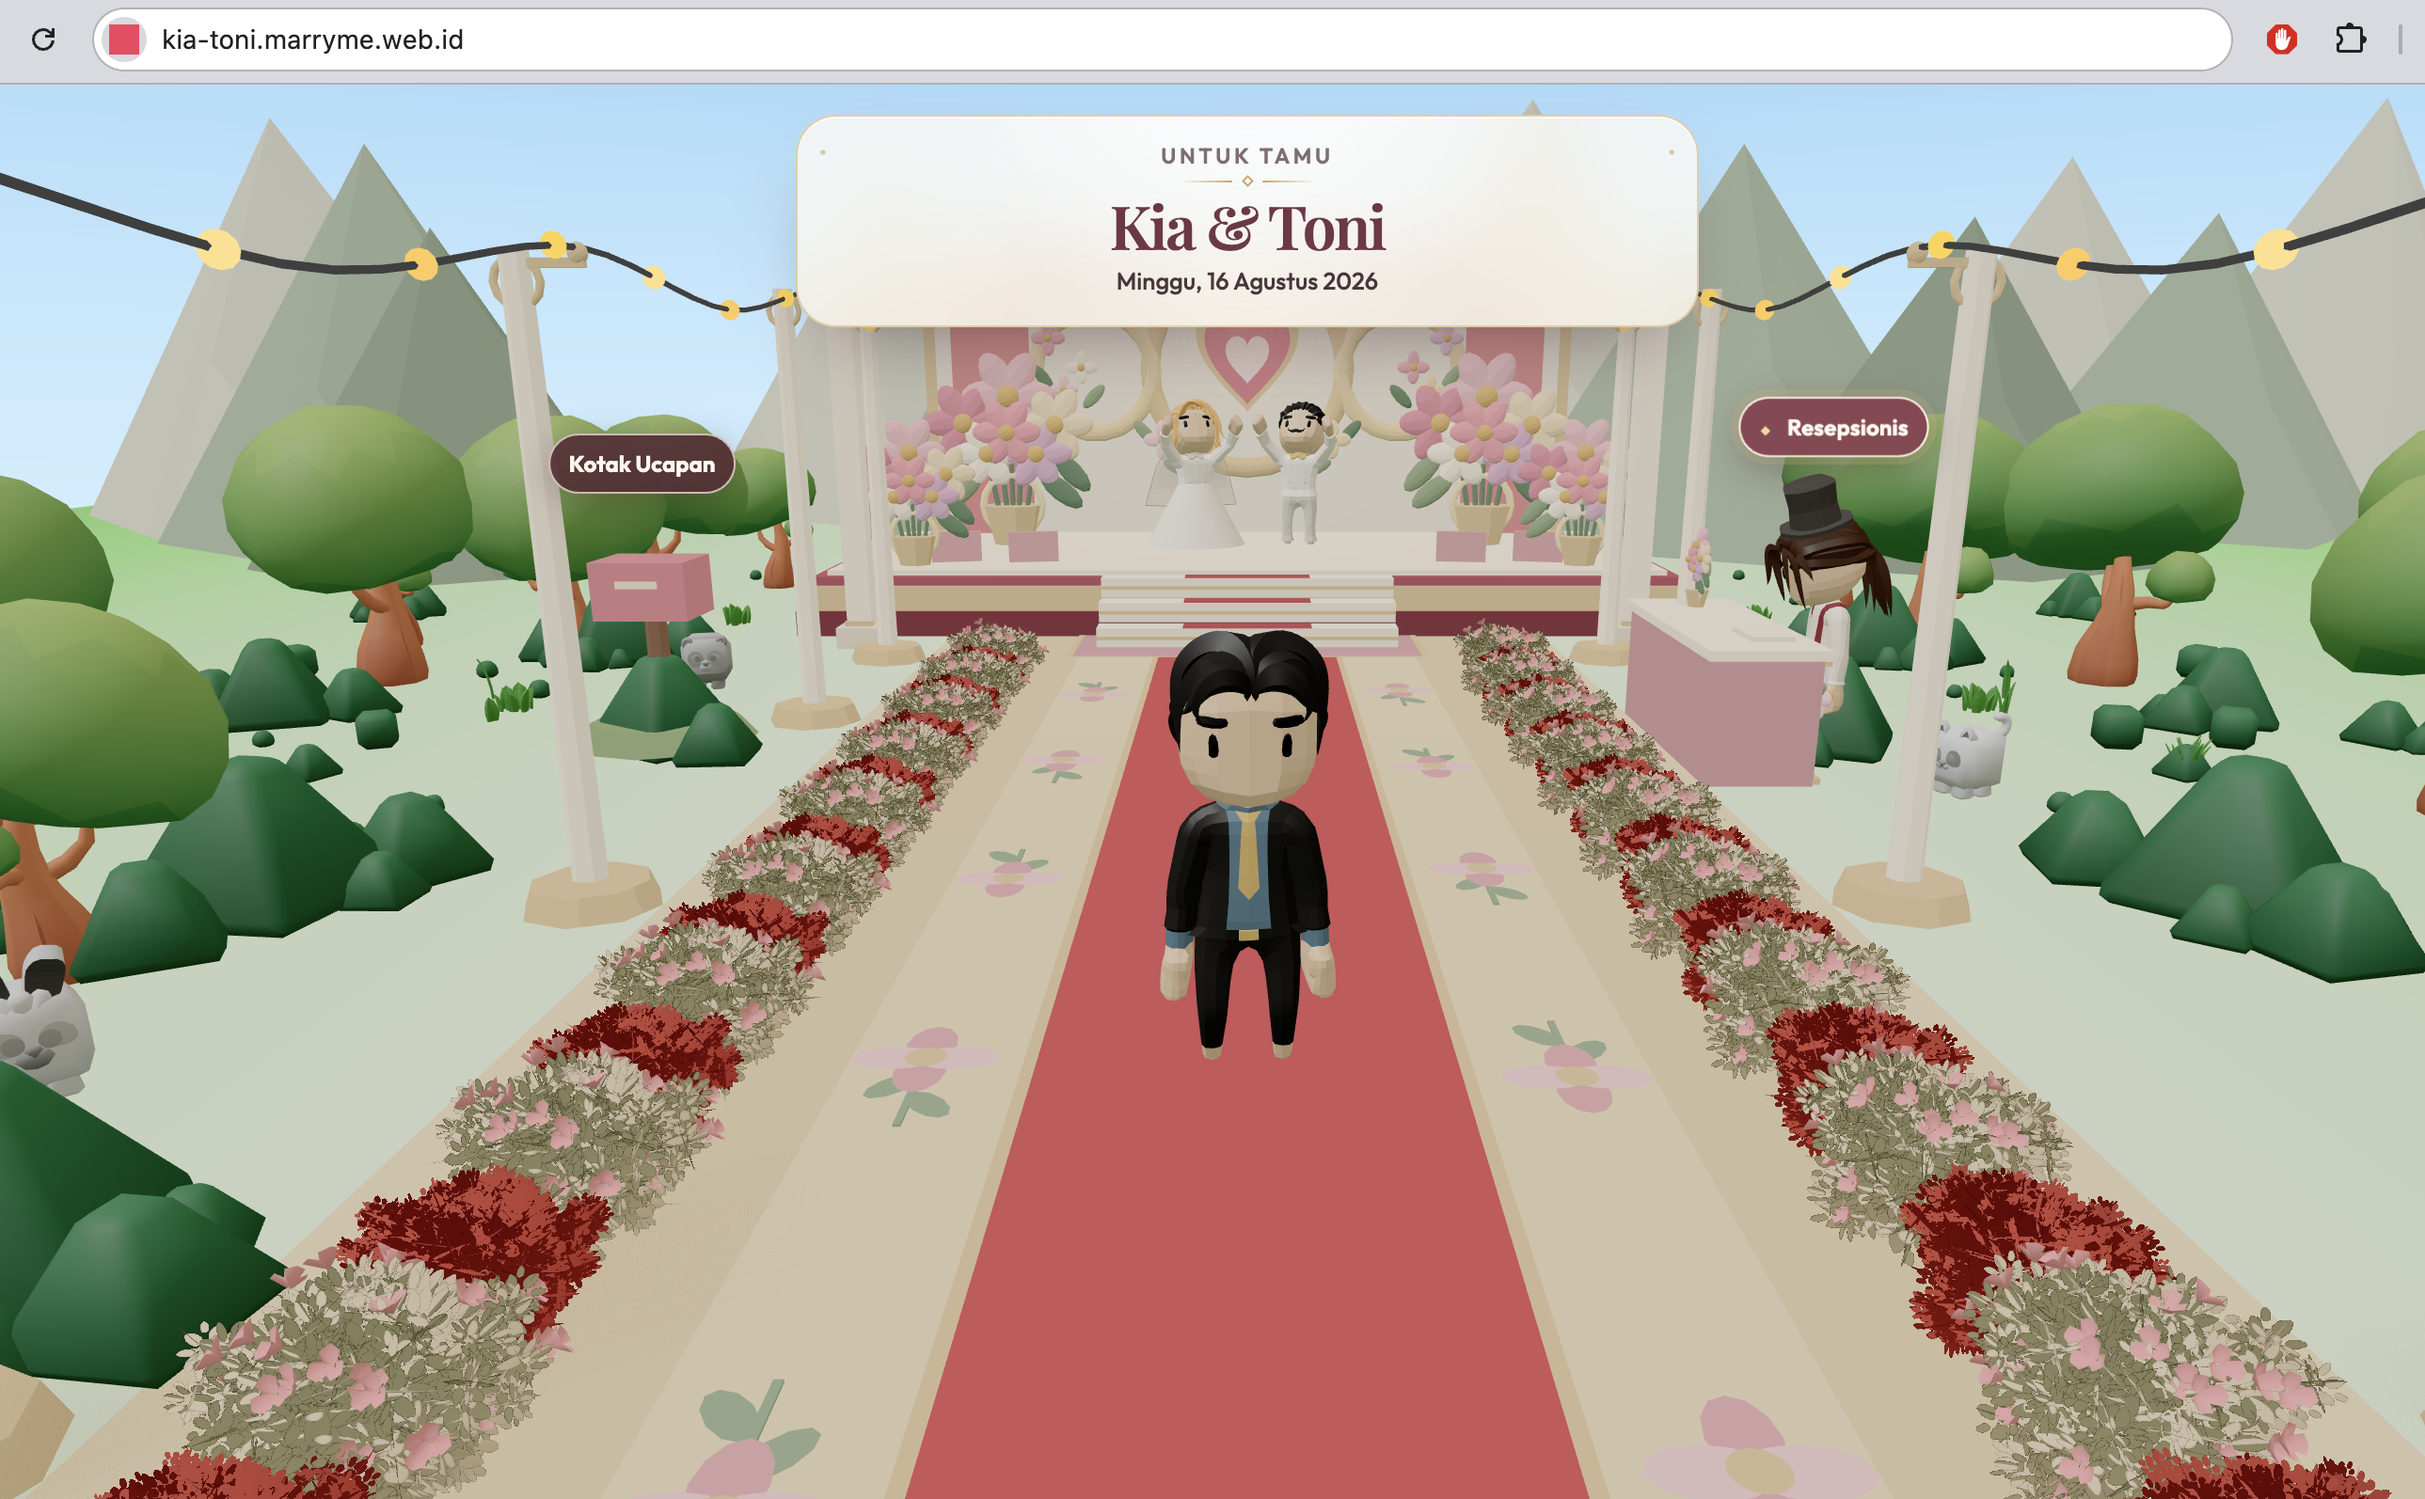
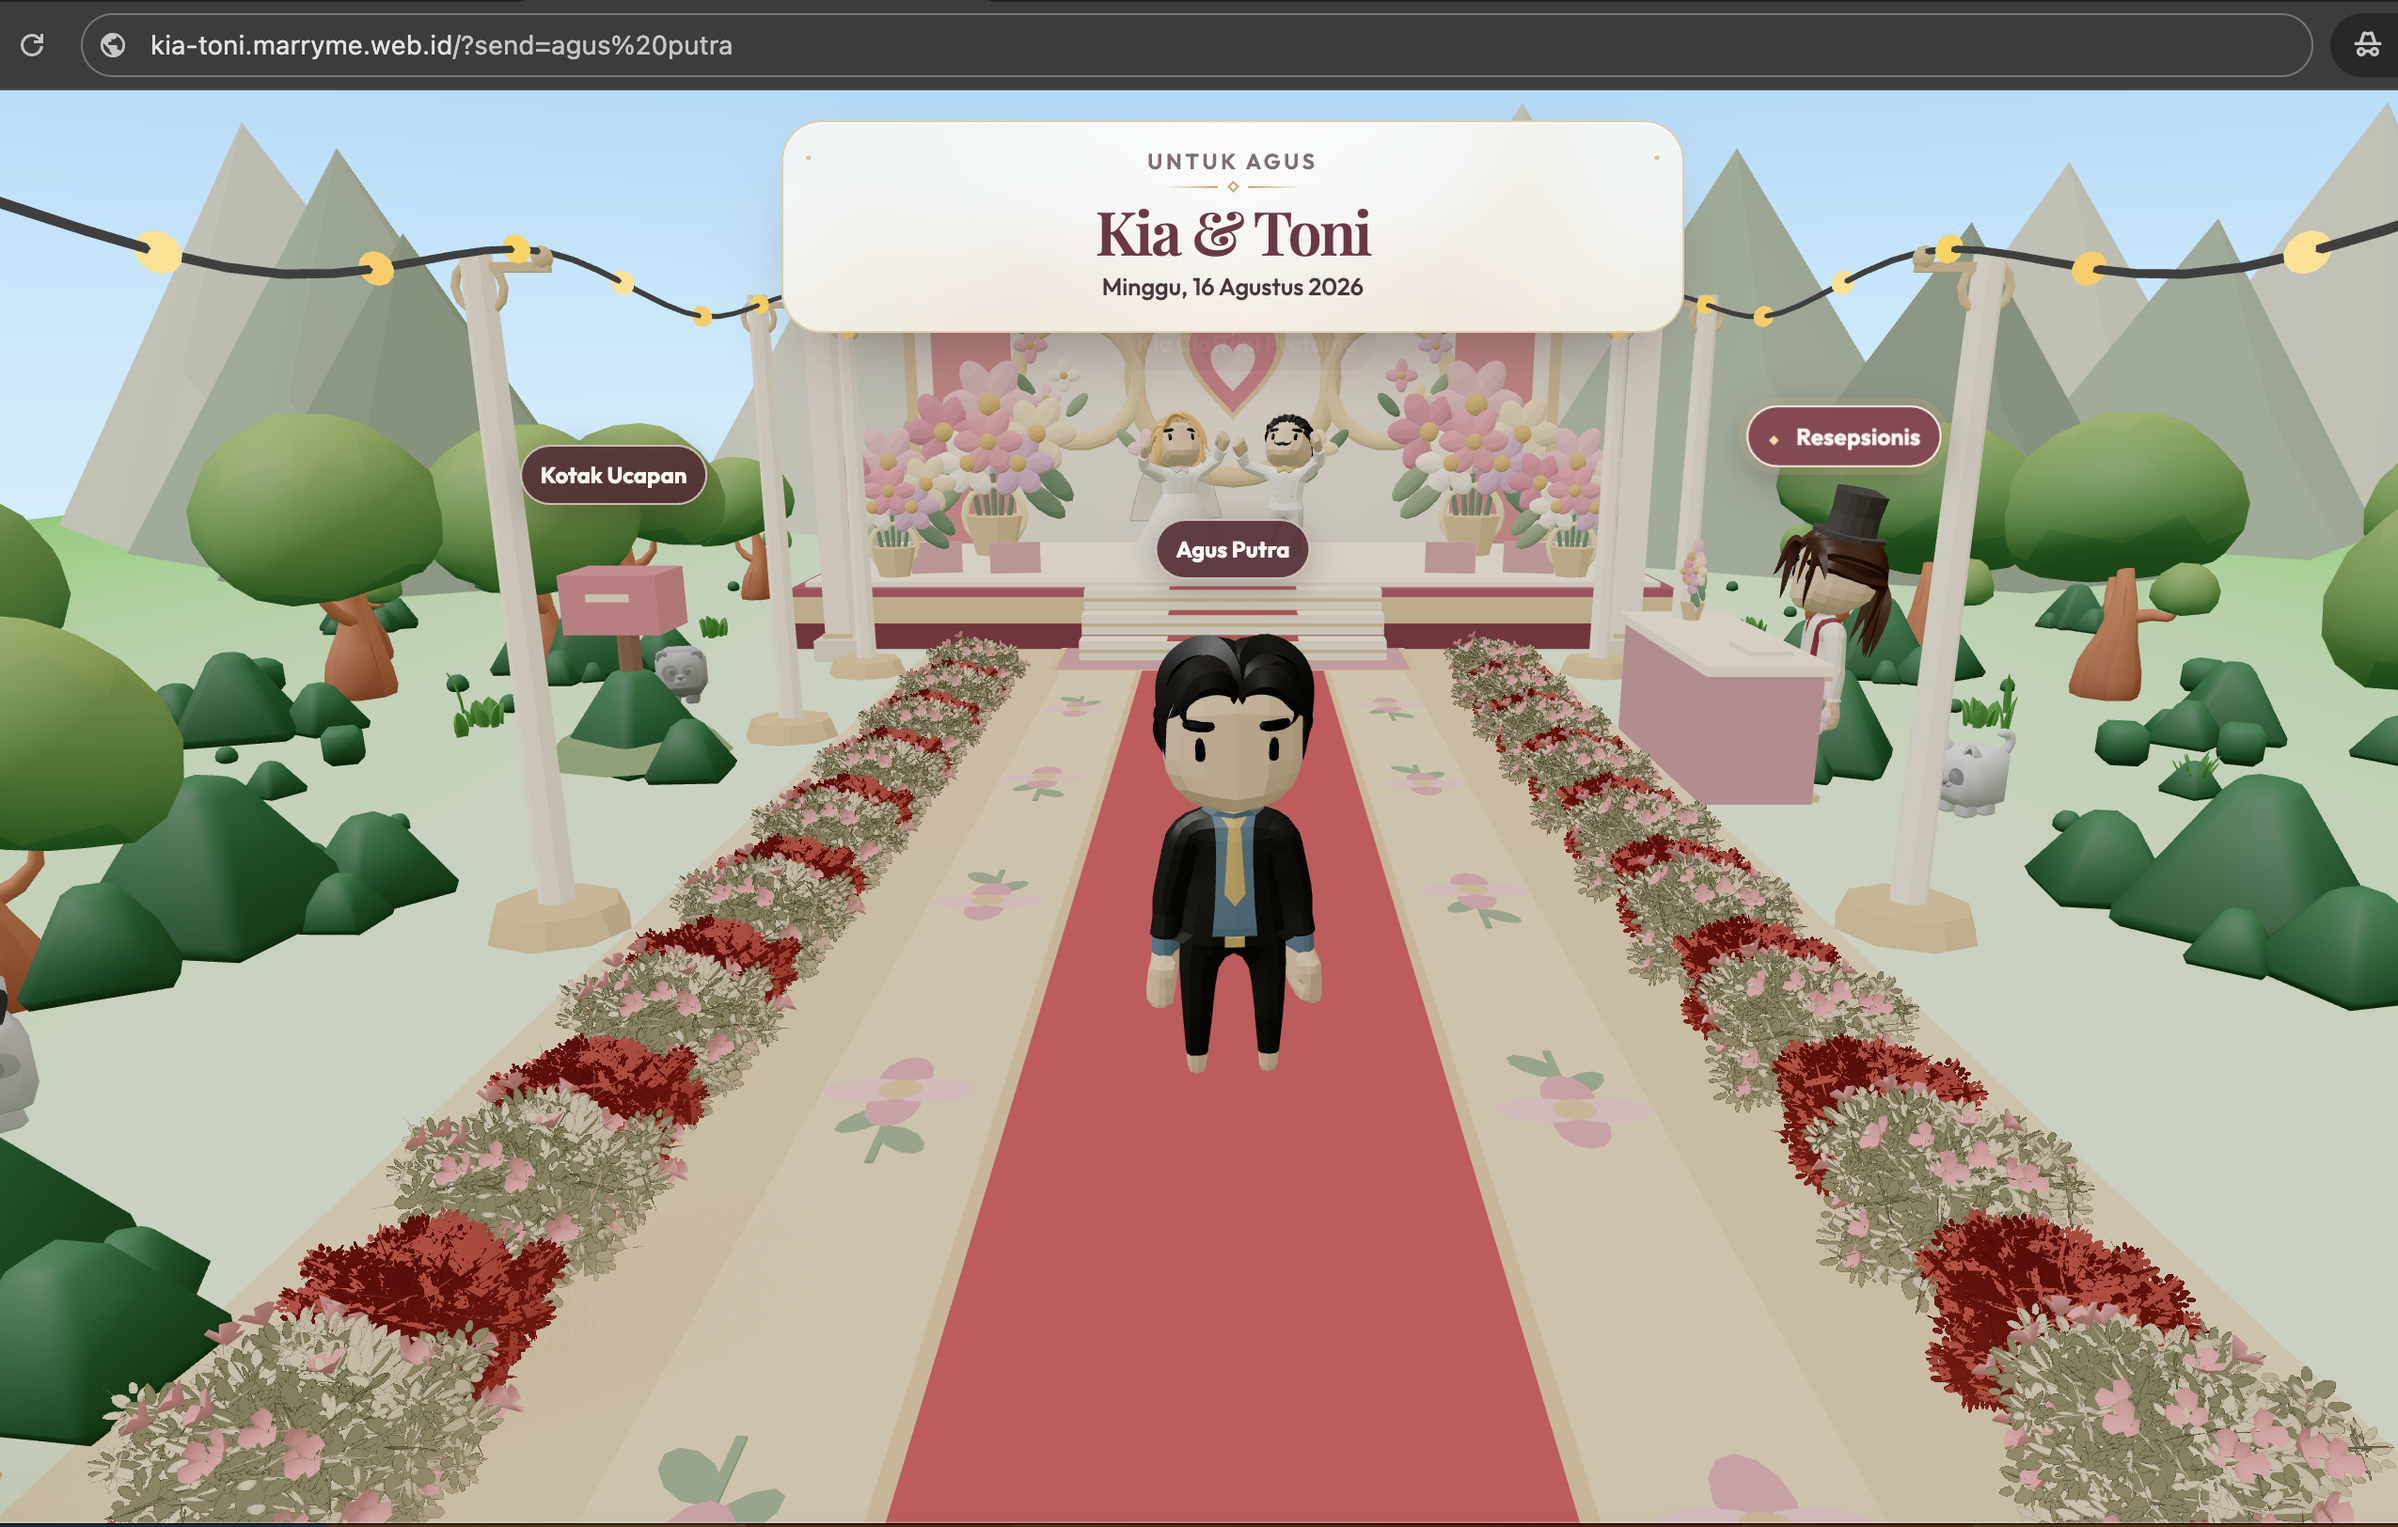
updated code

diff --git a/src/lib/components/platform/dashboard/InvitationSender.svelte b/src/lib/components/platform/dashboard/InvitationSender.svelte
@@ -11,7 +11,7 @@
   let error = $state('')
   let nameInput = $state('')
   let phoneInput = $state('')
-  let template = $state('Hai {nama}! Kami mengundang kamu ke pernikahan {mempelai}.\n\nBuka undangan 3D kami di sini:\n{link}\n\nKami tunggu kehadiranmu!')
+  let template = $state('Assalamualaikum Warahmatullahi Wabarakatuh. Hai {nama}! Kami mengundang kamu ke pernikahan {mempelai}.\n\nBuka undangan dunia 3D kami di sini:\n{link}\n\nKami tunggu kehadiranmu!')
   let selected = $state<string[]>([])
   let opened = $state<string[]>([])
   let bulkIndex = $state<number | null>(null)
@@ -58,7 +58,11 @@
     const couple = myConfig?.bride_name && myConfig?.groom_name
       ? `${myConfig.bride_name} & ${myConfig.groom_name}`
       : 'pernikahan kami'
-    return template.replaceAll('{nama}', contact.name).replaceAll('{mempelai}', couple).replaceAll('{link}', invitation.public_url)
+    const personalizedUrl = new URL(invitation.public_url.replace(/\/+$/, ''))
+    personalizedUrl.searchParams.set('send', contact.name.trim())
+    personalizedUrl.search = personalizedUrl.searchParams.toString().replace(/\+/g, '%20')
+    const personalizedLink = personalizedUrl.toString().replace(/\/?\?send=/, '?send=')
+    return template.replaceAll('{nama}', contact.name).replaceAll('{mempelai}', couple).replaceAll('{link}', personalizedLink)
   }
 
   function openChat(contact: InvitationContact) {
